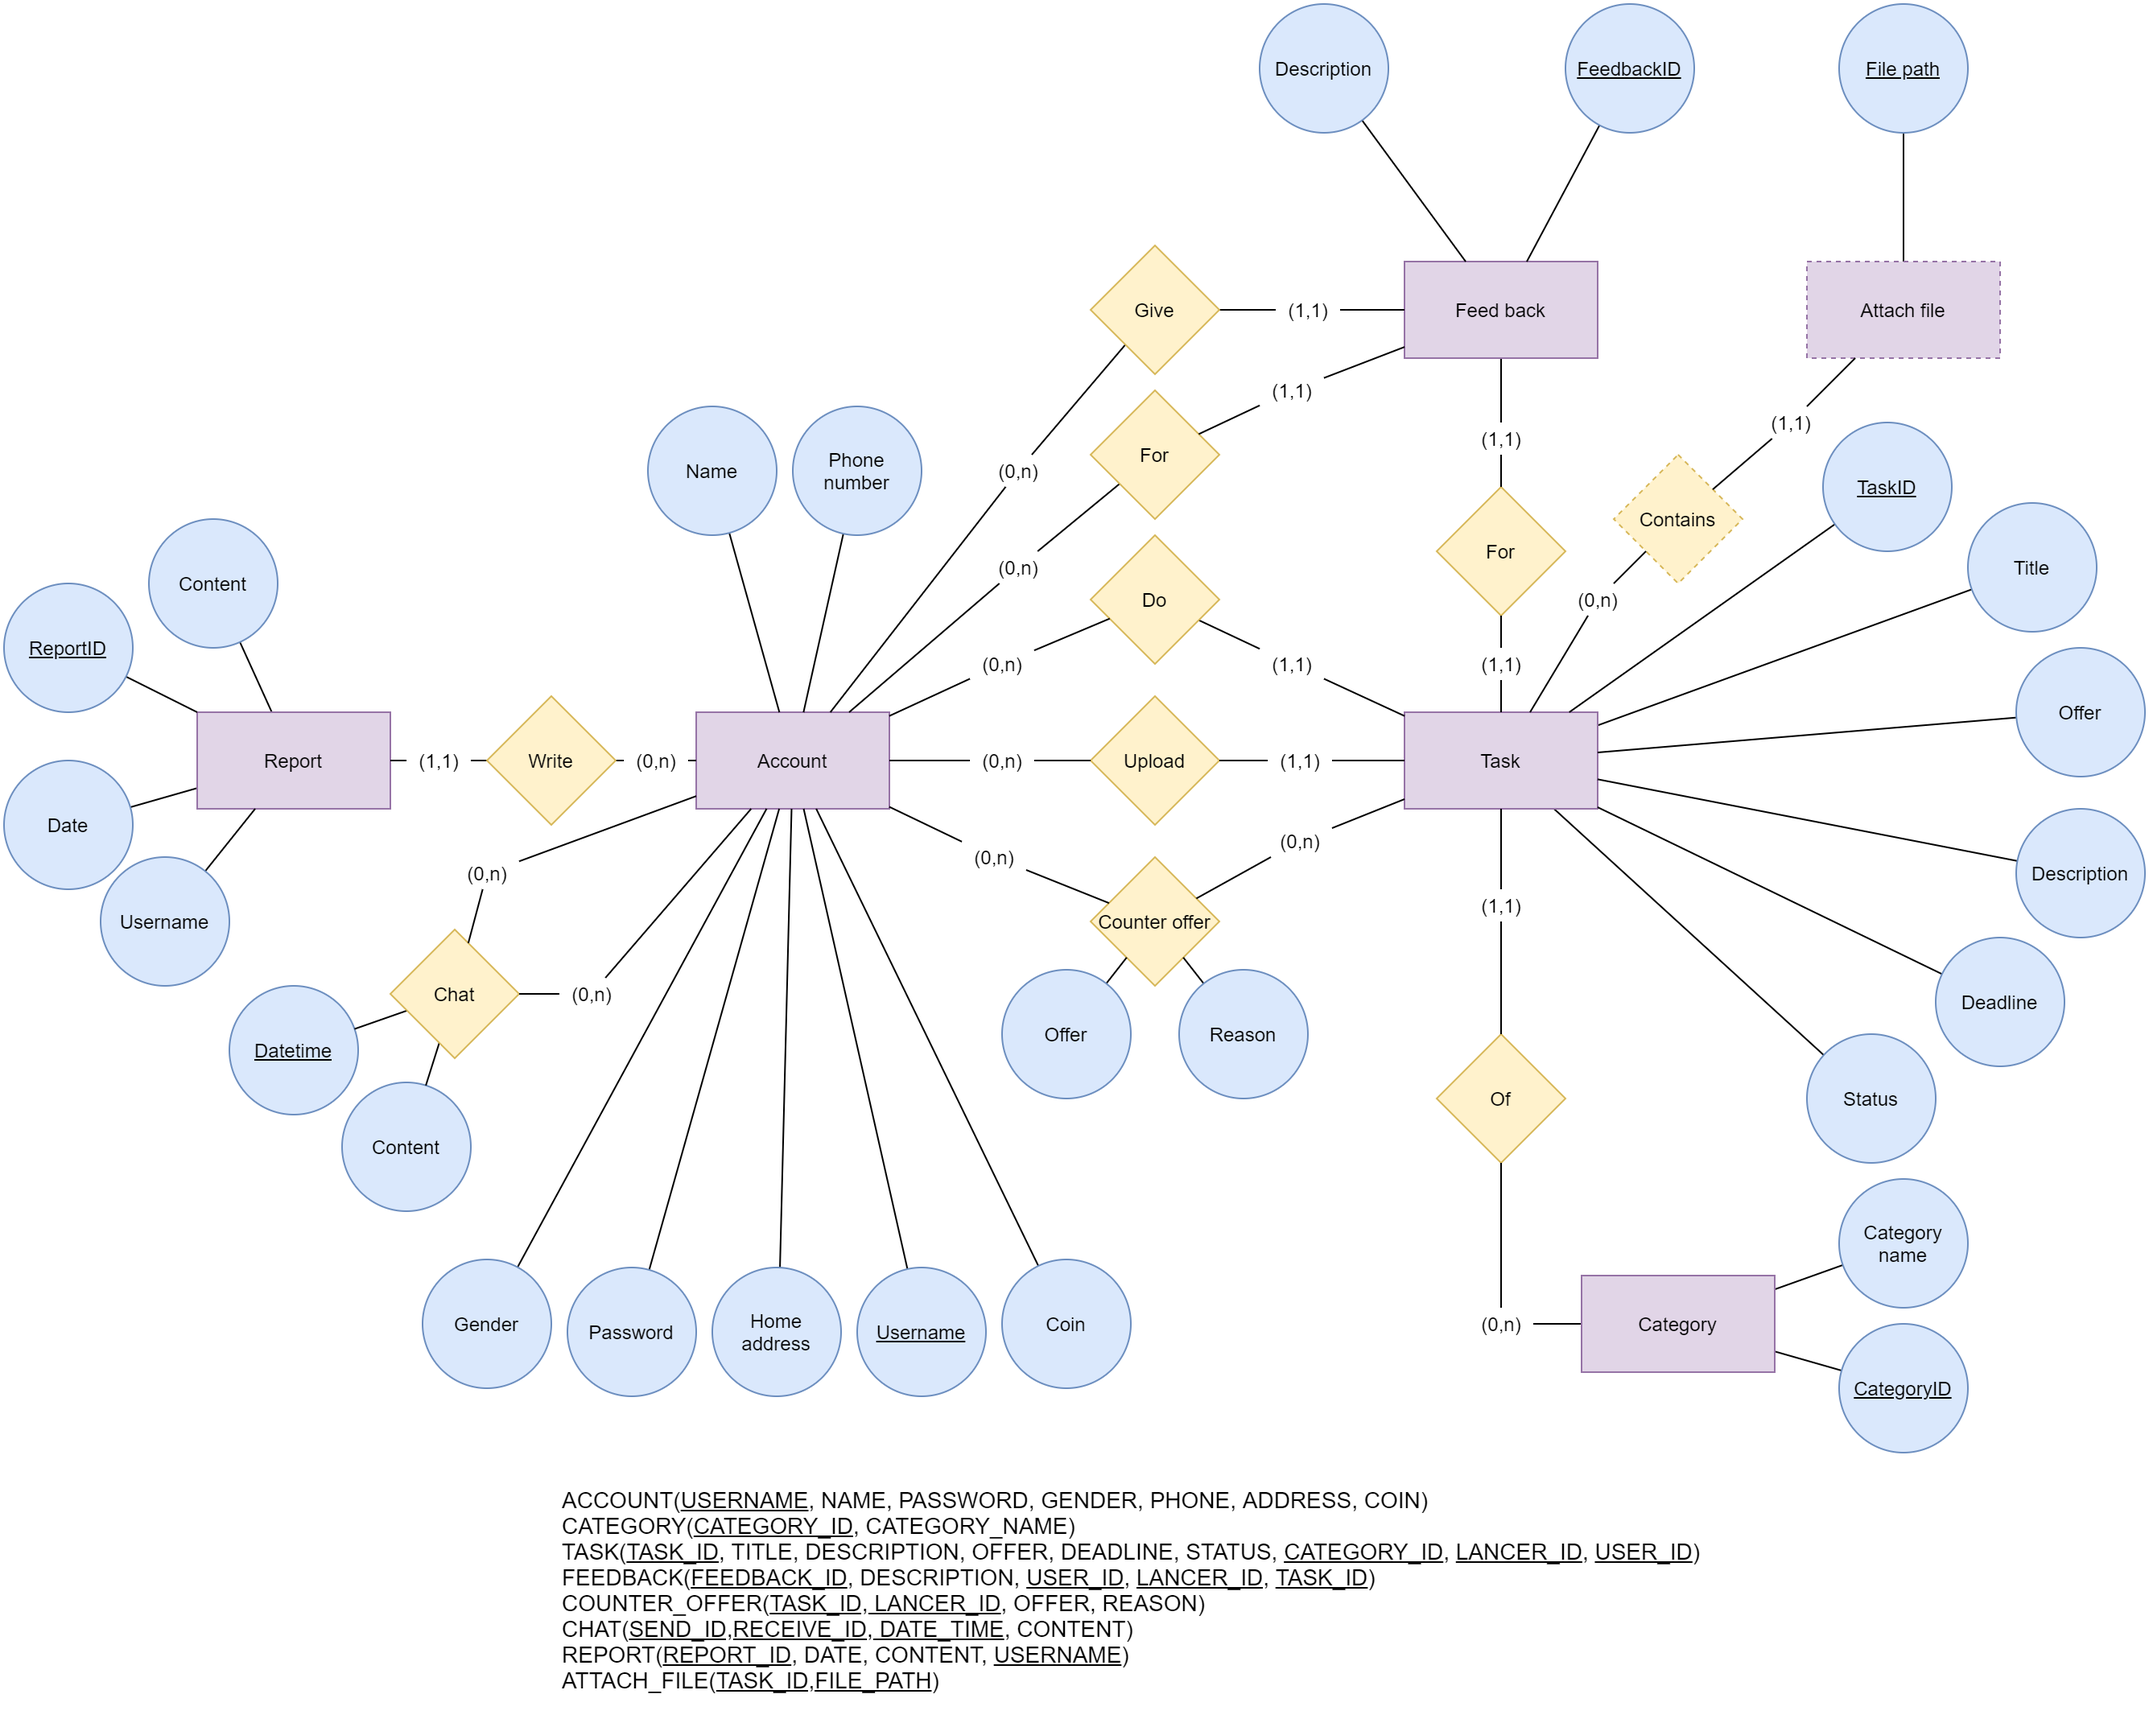
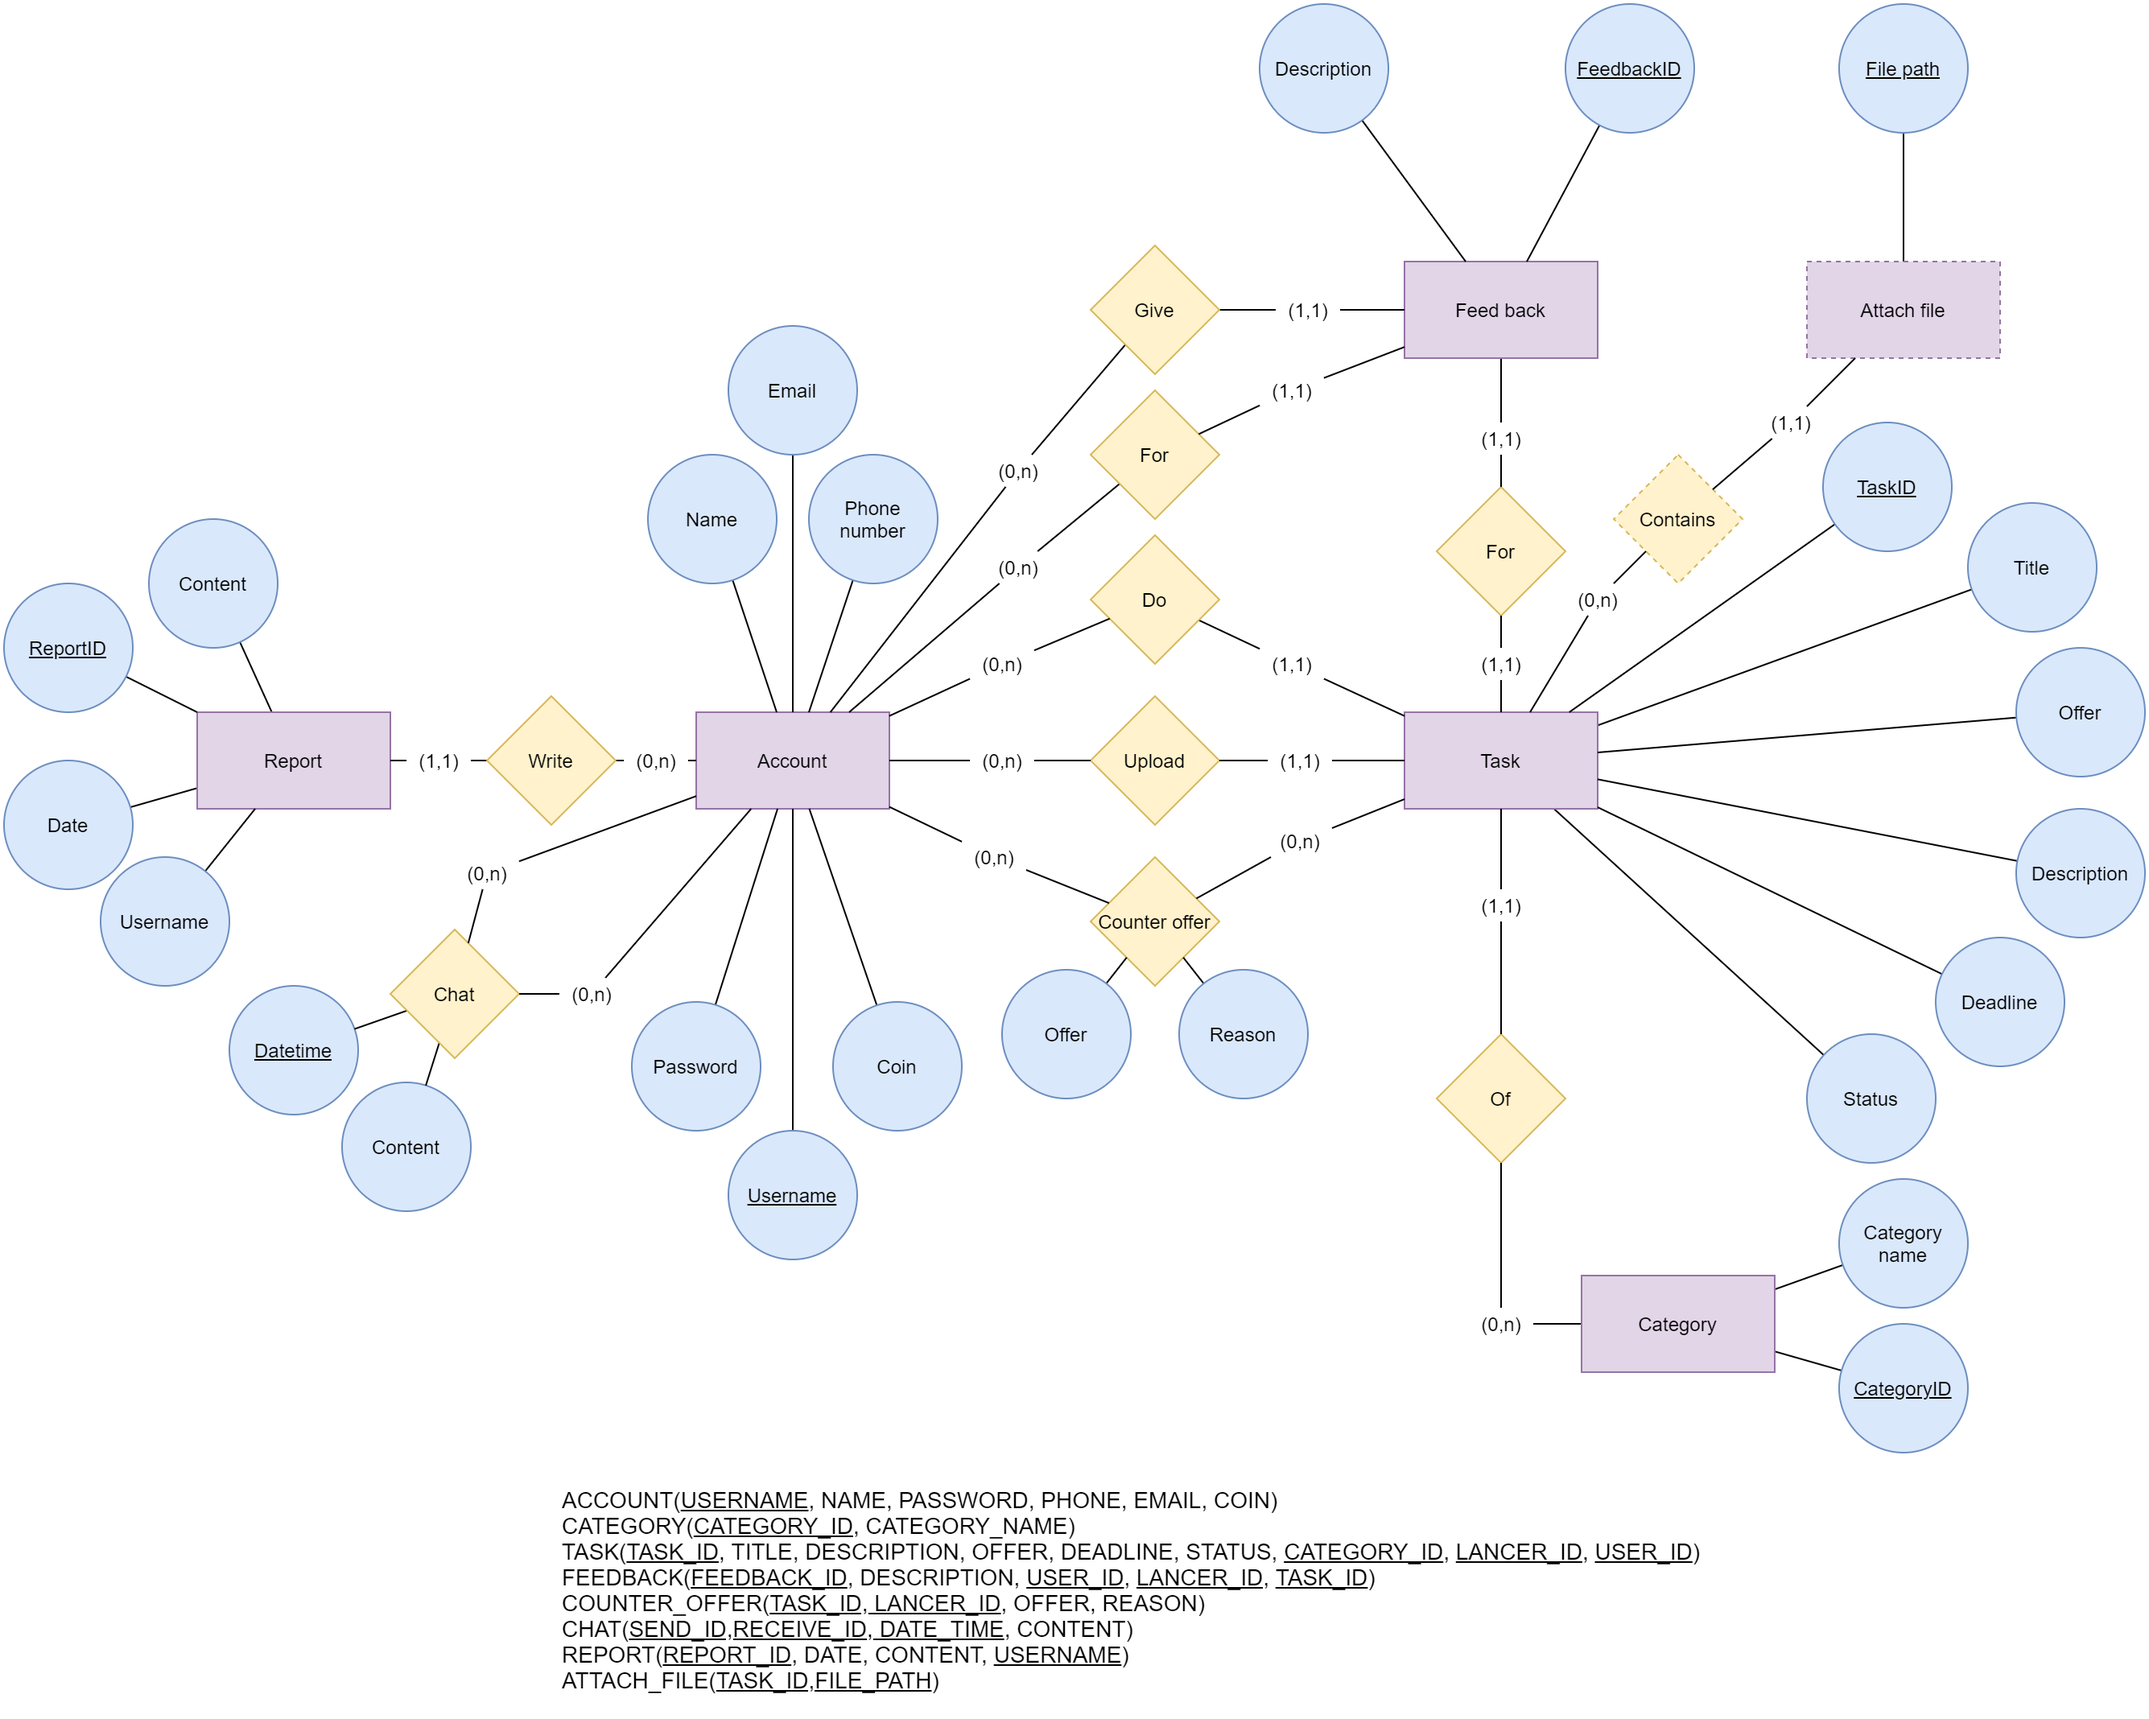
change model account: + remove gender + change address to email

diff --git a/src/Server/controller/account.js b/src/Server/controller/account.js
@@ -46,7 +46,7 @@ function signup(req,res){
         password: req.body.password,
         gender: req.body.gender,
         phone: req.body.phone,
-        address: req.body.address,
+        email: req.body.email,
         name: req.body.name
     }
 
@@ -158,7 +158,7 @@ function changeInformation(req,res) {
         phone: req.body.phone,
         address: req.body.address,
         name: req.body.name,
-        gender: req.body.gender
+        email: req.body.email
     }
     Object.keys(changes).forEach(key=>{
         if (changes[key]===undefined) {
